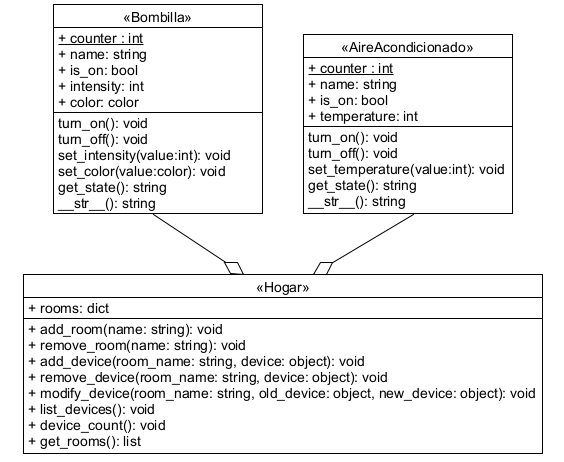
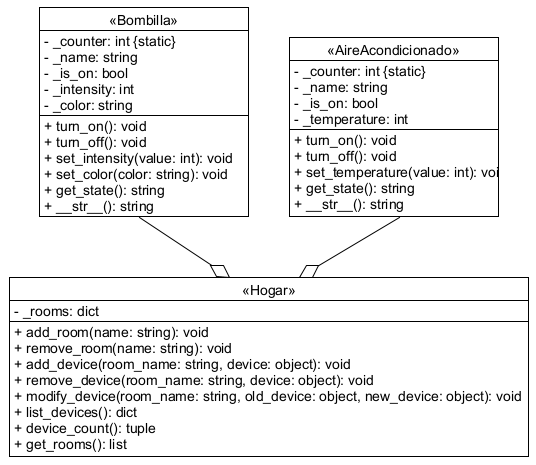
OOP-fix

Changed region(s): [[0.0, 0.5152, 1.0, 0.9697], [0.0597, 0.0, 0.4776, 0.5152], [0.5373, 0.0606, 0.9254, 0.5455]]

diff --git a/Lab1/main.py b/Lab1/main.py
@@ -1,43 +1,55 @@
-from Bombilla import Bombilla
-from AireAcondicionado import AireAcondicionado
-from Hogar import Hogar
+from smart_home.Bombilla import Bombilla
+from smart_home.AireAcondicionado import AireAcondicionado
+from smart_home.Hogar import Hogar
 
-# Bombilla
-print("\nHU01: Bombilla")
-b1 = Bombilla()
-b1.turn_on()
-b1.set_intensity(75)
-b1.set_color("red")
-print(b1.get_state())
-b1.turn_off()
-b1.set_intensity(40)
-b1.set_color("blue")
-print(b1.get_state())
+def main():
+    # Bombilla
+    print("\nHU01: Bombilla")
+    b1 = Bombilla()
+    b1.turn_on()
+    b1.set_intensity(75)
+    b1.set_color("red")
+    print(b1.get_state())
+    b1.turn_off()
+    b1.set_intensity(40)
+    b1.set_color("blue")
+    print(b1.get_state())
 
-# AireAcondicionado
-print("\nHU02: AireAcondicionado")
-ac1 = AireAcondicionado(20, "Bedroom AC")
-ac1.turn_on()
-ac1.set_temperature(22)
-print(ac1.get_state())
-ac1.set_temperature(26)
-ac1.turn_off()
-print(ac1.get_state())
+    # AireAcondicionado
+    print("\nHU02: AireAcondicionado")
+    ac1 = AireAcondicionado(20, "Bedroom AC")
+    ac1.turn_on()
+    ac1.set_temperature(22)
+    print(ac1.get_state())
+    ac1.set_temperature(26)
+    ac1.turn_off()
+    print(ac1.get_state())
 
-# Hogar
-print("\nHU03: Hogar")
-hogar = Hogar()
-hogar.add_room("Living Room")
-hogar.add_room("Bedroom")
-hogar.add_device("Living Room", b1)
-hogar.add_device("Bedroom", ac1)
+    # Hogar
+    print("\nHU03: Hogar")
+    hogar = Hogar()
+    hogar.add_room("Living Room")
+    hogar.add_room("Bedroom")
+    hogar.add_device("Living Room", b1)
+    hogar.add_device("Bedroom", ac1)
 
-print("Existing rooms:", hogar.get_rooms())
-hogar.list_devices()
-hogar.device_count()
-print()
+    print("Existing rooms:", hogar.get_rooms())
+    print("\nDevices:")
+    all_devices_map = hogar.list_devices()
+    for room, devices in all_devices_map.items():
+        print(f"Room {room}: {devices}")
 
-# Example of modifying a device
-b2 = Bombilla()
-hogar.modify_device("Living Room", b1, b2)
-hogar.list_devices()
+    total_devices, devices_in_each_room = hogar.device_count()
+    print(f"\nTotal devices: {total_devices}")
+    print("Devices per room: ", devices_in_each_room)
+
+    # Example of modifying a device
+    b2 = Bombilla()
+    hogar.modify_device("Living Room", b1, b2)
+    print("\nDevices:")
+    all_devices_map = hogar.list_devices()
+    for room, devices in all_devices_map.items():
+        print(f"Room {room}: {devices}")
+
+if __name__ == '__main__':
+    main()

diff --git a/Lab1/smart_home/Hogar.py b/Lab1/smart_home/Hogar.py
@@ -1,0 +1,42 @@
+class Hogar:
+    def __init__(self):
+        self._rooms = {}  # dictionary: key = room name, value = list of devices
+
+    def add_room(self, name):
+        if name not in self._rooms:
+            self._rooms[name] = []
+
+    def remove_room(self, name):
+        if name in self._rooms:
+            del self._rooms[name]
+
+    def add_device(self, room_name, device):
+        if room_name in self._rooms:
+            self._rooms[room_name].append(device)
+
+    def remove_device(self, room_name, device):
+        if room_name in self._rooms and device in self._rooms[room_name]:
+            self._rooms[room_name].remove(device)
+
+    def modify_device(self, room_name, old_device, new_device):
+        if room_name in self._rooms:
+            try:
+                index = self._rooms[room_name].index(old_device)
+                self._rooms[room_name][index] = new_device
+            except ValueError:
+                pass
+
+    def list_devices(self):
+        room_device_map = {}
+        for room, devices in self._rooms.items():
+            device_names = [str(device) for device in devices]
+            room_device_map[room] = device_names
+        return room_device_map
+
+    def device_count(self):
+        total = sum(len(d) for d in self._rooms.values())
+        per_room = {room: len(d) for room, d in self._rooms.items()}
+        return total, per_room
+
+    def get_rooms(self):
+        return list(self._rooms.keys())

diff --git a/Lab1/smart_home/Bombilla.py b/Lab1/smart_home/Bombilla.py
@@ -1,0 +1,32 @@
+class Bombilla:
+    _counter = 1  # static counter for auto-naming
+
+    def __init__(self, color="white", intensity=0, name=None):
+        if name is None:
+            self._name = f"Bombilla{Bombilla._counter}"
+            Bombilla._counter += 1
+        else:
+            self._name = name
+
+        self._is_on = False
+        self._intensity = intensity  # 0-100
+        self._color = color
+
+    def turn_on(self):
+        self._is_on = True
+
+    def turn_off(self):
+        self._is_on = False
+
+    def set_intensity(self, value):
+        self._intensity = max(0, min(100, value))
+
+    def set_color(self, color):
+        self._color = color
+
+    def get_state(self):
+        return f"{self._name}: {'ON' if self._is_on else 'OFF'}, Intensity: {self._intensity}%, Color: {self._color}"
+
+    # overwrites default method to display name instead of object hexadecimal id
+    def __str__(self):
+        return self._name

diff --git a/Lab1/smart_home/AireAcondicionado.py b/Lab1/smart_home/AireAcondicionado.py
@@ -1,0 +1,28 @@
+class AireAcondicionado:
+    _counter = 1  # static counter for auto-naming
+
+    def __init__(self, temperature=24, name=None):
+        if name is None:
+            self._name = f"AireAcondicionado{AireAcondicionado._counter}"
+            AireAcondicionado._counter += 1
+        else:
+            self._name = name
+
+        self._is_on = False
+        self._temperature = temperature
+
+    def turn_on(self):
+        self._is_on = True
+
+    def turn_off(self):
+        self._is_on = False
+
+    def set_temperature(self, temperature):
+        self._temperature = temperature
+
+    def get_state(self):
+        return f"{self._name}: {'ON' if self._is_on else 'OFF'}, Temperature: {self._temperature}°C"
+
+    # overwrites default method to display name instead of object hexadecimal id
+    def __str__(self):
+        return self._name
